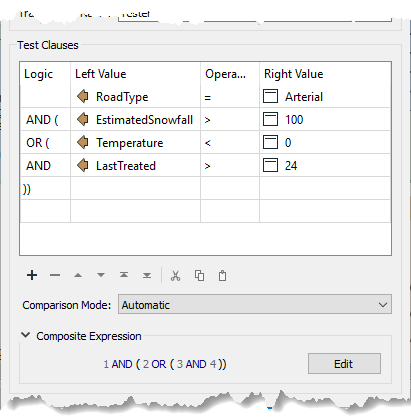
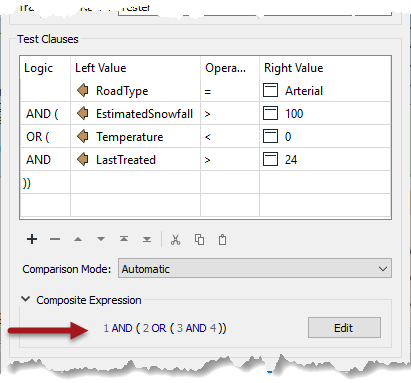
Chapter 4: 2019.1 updates

diff --git a/DesktopBasic4Transformers/4.16.TesterTestFilter.md b/DesktopBasic4Transformers/4.16.TesterTestFilter.md
@@ -41,14 +41,38 @@ It's also worth remembering that we aren't restricted to simple tests of equalit
 
 ---
 
+<!--Warning Section--> 
+
+<table style="border-spacing: 0px">
+<tr>
+<td style="vertical-align:middle;background-color:darkorange;border: 2px solid darkorange">
+<i class="fa fa-exclamation-triangle fa-lg fa-pull-left fa-fw" style="color:white;padding-right: 12px;vertical-align:text-top"></i>
+<span style="color:white;font-size:x-large;font-weight: bold;font-family:serif">WARNING</span>
+</td>
+</tr>
+
+<tr>
+<td style="border: 1px solid darkorange">
+<span style="font-family:serif; font-style:italic; font-size:larger">
+Be aware that you can type values into the Logic column, as well as select them from the dropdown list. That means you aren't limited to the basic, single parentheses that the dropdown field would lead you to believe!
+</span>
+</td>
+</tr>
+</table>
+
+---
+
 <!--Updated Section-->
 
 <table style="border-spacing: 0px"><tr><td style="vertical-align:middle;background-color:darkorange;border: 2px solid darkorange"><i class="fa fa-bolt fa-lg fa-pull-left fa-fw" style="color:white;padding-right: 12px;vertical-align:text-top"></i><span style="color:white;font-size:x-large;font-weight: bold;font-family:serif">2019.1 UPDATE</span></td></tr>
 
-<tr><td style="border: 1px solid darkorange"><span style="font-family:serif; font-style:italic; font-size:larger">When constructing a test with multiple clauses in FME 2019.1, you can now edit the test composition with an expression instead of using the dropdown options in the Logic column:<br>
+<tr><td style="border: 1px solid darkorange"><span style="font-family:serif; font-style:italic; font-size:larger">When constructing a test with multiple clauses in 2019.0 the overall logic can be seen as a tooltip by hovering over any part of the logic column. In FME 2019.1, that overall logic is now displayed in a text box below:<br><br>
 
 <img src="./Images/Img4.051b.TesterCompositeExpression.png" />
 
+<br><br>The numbers in the expression refer to the row number in the test clauses table. So "1 AND 2" means the test clauses in row 1 and row 2 (the AND means both clauses have to pass for the overall feature to pass).
+<br><br>Also note, that in 2019.1 you can also adjust the test composition by directly editing the composite expression. To do so simply requires the user to click the Edit button and type in a new expression. Experienced users will find this faster that using the Logic column dropdown options.
+<br><br>The Logic column and the Composite Expression field are mirror images of each other. Any changes to either are reflected in the other. For example, in the above if I changed AND to OR in the logic column (second row) then the composite expression would change to match. Conversely, if I changed the composite expression to 1 AND ( 2 OR 3 ) then the test clauses would change to match, including deleting the now unused 4th row.
 </span></td></tr></table>
 
 ---

diff --git a/DesktopBasic4Transformers/4.Exercise3.md b/DesktopBasic4Transformers/4.Exercise3.md
@@ -139,21 +139,24 @@ Set the Bufferer Buffer Amount parameter to be 50.
 
 ---
 
-<!--Tip Section-->
+<!--Updated Section--> 
 
 <table style="border-spacing: 0px">
 <tr>
 <td style="vertical-align:middle;background-color:darkorange;border: 2px solid darkorange">
-<i class="fa fa-info-circle fa-lg fa-pull-left fa-fw" style="color:white;padding-right: 12px;vertical-align:text-top"></i>
-<span style="color:white;font-size:x-large;font-weight: bold;font-family:serif">TIP</span>
+<i class="fa fa-bolt fa-lg fa-pull-left fa-fw" style="color:white;padding-right: 12px;vertical-align:text-top"></i>
+<span style="color:white;font-size:x-large;font-weight: bold;font-family:serif">2019.1 UPDATE</span>
 </td>
 </tr>
 
 <tr>
 <td style="border: 1px solid darkorange">
 <span style="font-family:serif; font-style:italic; font-size:larger">
-Optionally you can set the Dissolve on Attributes parameter, to merge all the buffered features together based on an attribute like the fme_feature_type.
-<br><br>The results of the translation will be the same (in terms of addresses selected) but the data will look better in Visual Preview.
+A common question with the Bufferer is what units the buffer amount uses. In general it's the coordinate system (ground) units, but in 2019.1 the Bufferer has a new parameter called <strong>Buffer Distance Units</strong>: 
+<br><br><img src="./Images/Img4.223b.Ex3.BuffererUnits.png">
+<br><br>This parameter allows you to set (for example) units in feet, while retaining the data in its original coordinate system (maybe latitude/longitude where the units are decimal degrees).
+<br><br>In this exercise this parameter can be either Ground Units or Meters (metres), as meters are both the ground units and the required buffer amount. If you wish, try changing the units to Feet and setting the buffer size to 164. The results should be virtually identical.
+<br><br>Another parameter you may wish to set here is <strong>Dissolve on Attributes</strong>. This is a group-by style of parameter that causes all buffered features to be dissolved together based on an attribute value. It's a way to give a tidier output, while still covering the same geographic area. In this case you could use the fme_feature_type attribute.
 </span>
 </td>
 </tr>

diff --git a/DesktopBasic4Transformers/4.03.TransformerSearching.md b/DesktopBasic4Transformers/4.03.TransformerSearching.md
@@ -67,9 +67,9 @@ Transformers from FME Hub are shown in Quick Add with a small, downwards-pointin
 <td style="border: 1px solid darkorange">
 <span style="font-family:serif; font-style:italic; font-size:larger">
 Packages from FME Hub are new for 2019.0. They are a way to ship fully functional components outside of the main FME releases. Packages are fully portable, containing all required dependencies that they need in order to run. Python backed transformers, as well as Workbench created items, are supported.
-<br>Packages can be searched and downloaded the same way as custom transformers. They are denoted in Quick Add by a little box icon:
+<br><br>Packages can be searched for and downloaded the same way as custom transformers. They are denoted in Quick Add by a little box icon:
 <br><br><img src="./Images/Img4.501.PackageIcon.png">
-
+<br><br>Packages have their own section on the Navigator window to denote when updates are available.
 </span>
 </td>
 </tr>

diff --git a/DesktopBasic4Transformers/4.07.NoReadersWriters.md b/DesktopBasic4Transformers/4.07.NoReadersWriters.md
@@ -33,6 +33,29 @@ Some of these integration transformers are for reading, writing, or copying file
 </tr>
 </table>
 
+---
+
+<!--Updated Section--> 
+
+<table style="border-spacing: 0px">
+<tr>
+<td style="vertical-align:middle;background-color:darkorange;border: 2px solid darkorange">
+<i class="fa fa-bolt fa-lg fa-pull-left fa-fw" style="color:white;padding-right: 12px;vertical-align:text-top"></i>
+<span style="color:white;font-size:x-large;font-weight: bold;font-family:serif">2019.1 UPDATE</span>
+</td>
+</tr>
+
+<tr>
+<td style="border: 1px solid darkorange">
+<span style="font-family:serif; font-style:italic; font-size:larger">
+New for 2019.1 are the GoogleCloudStorageConnector, TrelloConnector, and KafkaConnector; all available as packages from the FME Hub.
+</span>
+</td>
+</tr>
+</table>
+
+---
+
 In this example the author is reading a dataset of parks and passing the features to a DropboxConnector:
 
 ![](./Images/Img4.022.DropboxImageRead.png)

diff --git a/DesktopBasic4Transformers/4.04.MostValuableTransformers.md b/DesktopBasic4Transformers/4.04.MostValuableTransformers.md
@@ -7,7 +7,7 @@ Anyone can be proficient in FME using only a handful of transformers if they are
 ## The Top 30 ##
 The [list of transformers](https://www.safe.com/transformers/) on the Safe Software website is ordered by most-used, calculated from user feedback. Having this information tells us where to direct our development efforts in making improvements, but it also gives users a head-start on knowing which of the (500+) FME transformers they’re most likely to need in their work.
 
-The following table (last updated April 2019) provides the list of the most commonly used 30 transformers. The Tester transformer is consistently number one in the list every year, highlighting its importance.
+The following table (last updated July 2019) provides the list of the most commonly used 30 transformers. The Tester transformer is consistently number one in the list every year, highlighting its importance.
 
 <table style="border-spacing: 0px">
 <tr>

diff --git a/DesktopBasic4Transformers/4.Exercise2.md b/DesktopBasic4Transformers/4.Exercise2.md
@@ -67,7 +67,8 @@ Once the Geodatabase has been dropped onto Visual Preview, a Select Dataset to V
 
 ![](./Images/Img4.201.Ex2.SourceAddressData.png)
 
-**2) Add Creator and FeatureReader Transformers**
+
+<br>**2) Add Creator and FeatureReader Transformers**
 <br>Now that you are familiar with the source data, we can add the data to the workspace.
 
 We can choose to read the source data using either a reader or a FeatureReader transformer. The FeatureReader will allow us to build in a spatial filter so - because we believe this project may need some filtering - we'll use a FeatureReader transformer with a Creator to create a feature to trigger it.

diff --git a/DesktopBasic4Transformers/4.05.Workflows.md b/DesktopBasic4Transformers/4.05.Workflows.md
@@ -24,3 +24,4 @@ Some of the key workflow transformers, and the tasks that they carry out, are as
 These are part of a workflow because they don't necessarily read or write data at the start or end of a translation; they can be set up to read or write data mid-translation. This provides certain advantages over fixed-position readers and writers.
 
 The FeatureReader is the 17th most-used transformer in FME, while the FeatureWriter just falls outside our most-valuable list, at number 31.
+

diff --git a/DesktopBasic4Transformers/4.17.FilterTransformers.md b/DesktopBasic4Transformers/4.17.FilterTransformers.md
@@ -105,7 +105,7 @@ If the Tester, TestFilter, and AttributeFilter all filter features on the basis 
 <br>- <a href="https://www.safe.com/blog/2013/03/fmeevangelist113/">Conditional Processing in FME</a>
 <br>- <a href="https://www.safe.com/blog/2019/03/test-clauses-2019-evangelist186/">Test Clauses Remade: Data Filtering in FME 2019
 </a>
-<br>There's also a useful table I put together:
+<br><br>There's also a useful table I put together:
 </span>
 </td>
 </tr>
